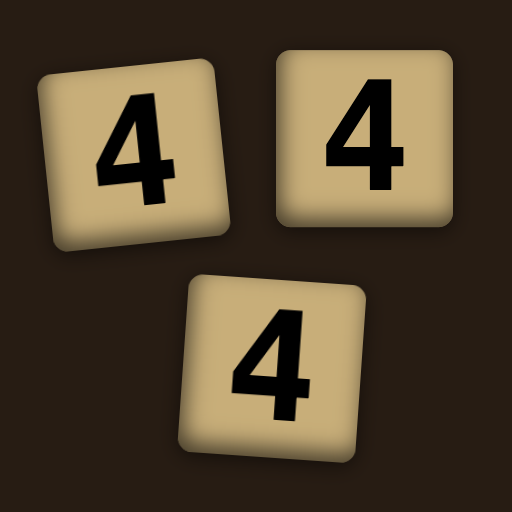
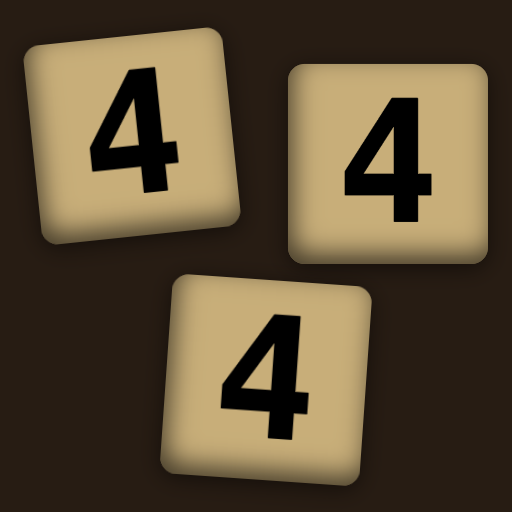
Grow the 444dle tiles and drop the top-right one
The top-right tile sits below its neighbour now and the bottom one comes
back toward the middle, which frees the corners enough to take the tiles
from 0.347 of the canvas to 0.39.

Their nudges also lean right and down. Flex centres the upright boxes, but
the top-left tile is the one turned furthest, so its corners reach past the
others and the mark was riding high and left of centre; the margins come
out even now.

Changed region(s): [[0.5312, 0.0938, 0.9688, 0.5625], [0.0312, 0.0312, 0.4688, 0.5], [0.3125, 0.5312, 0.75, 0.9688]]

diff --git a/scripts/icons/main.ts b/scripts/icons/main.ts
@@ -22,14 +22,14 @@ const ART: Record<string, Art> = {
     rows: [[{ char: "r", lie: -5 }]],
   },
   "444dle": {
-    tile: 0.347,
-    gap: 0.22,
+    tile: 0.39,
+    gap: 0.2,
     rows: [
       [
-        { char: "4", lie: -6, dx: -0.08, dy: 0.04 },
-        { char: "4", lie: 0, dy: -0.05 },
+        { char: "4", lie: -6, dx: -0.02 },
+        { char: "4", lie: 0, dx: 0.06, dy: 0.14 },
       ],
-      [{ char: "4", lie: 4, dx: 0.09, dy: 0.02 }],
+      [{ char: "4", lie: 4, dx: 0.05, dy: 0.02 }],
     ],
   },
 };
